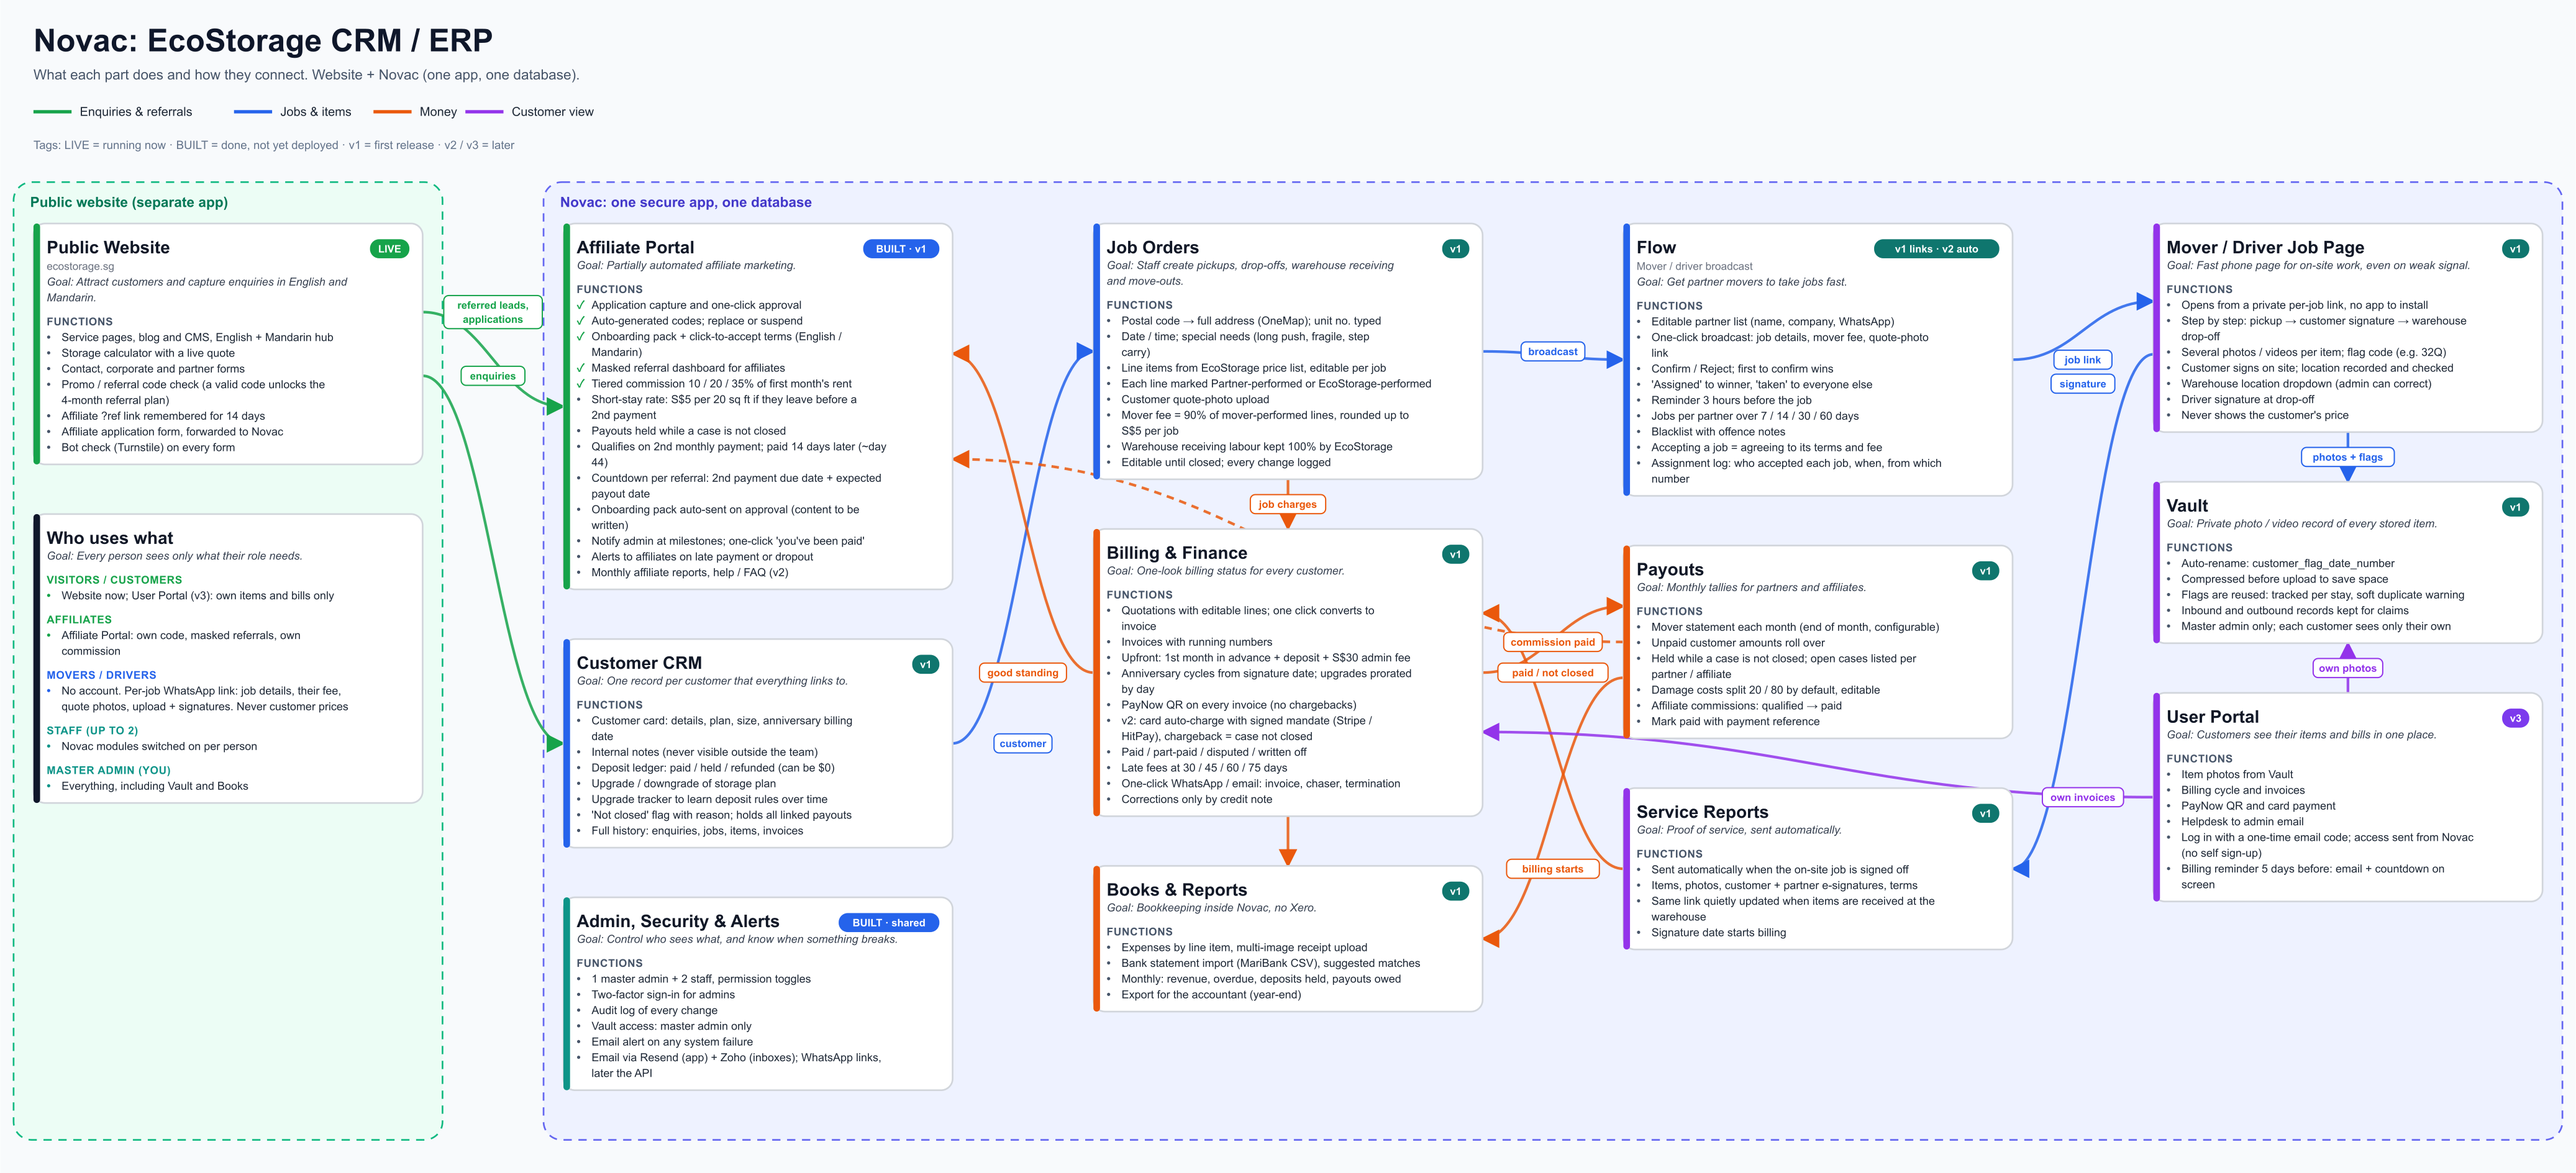
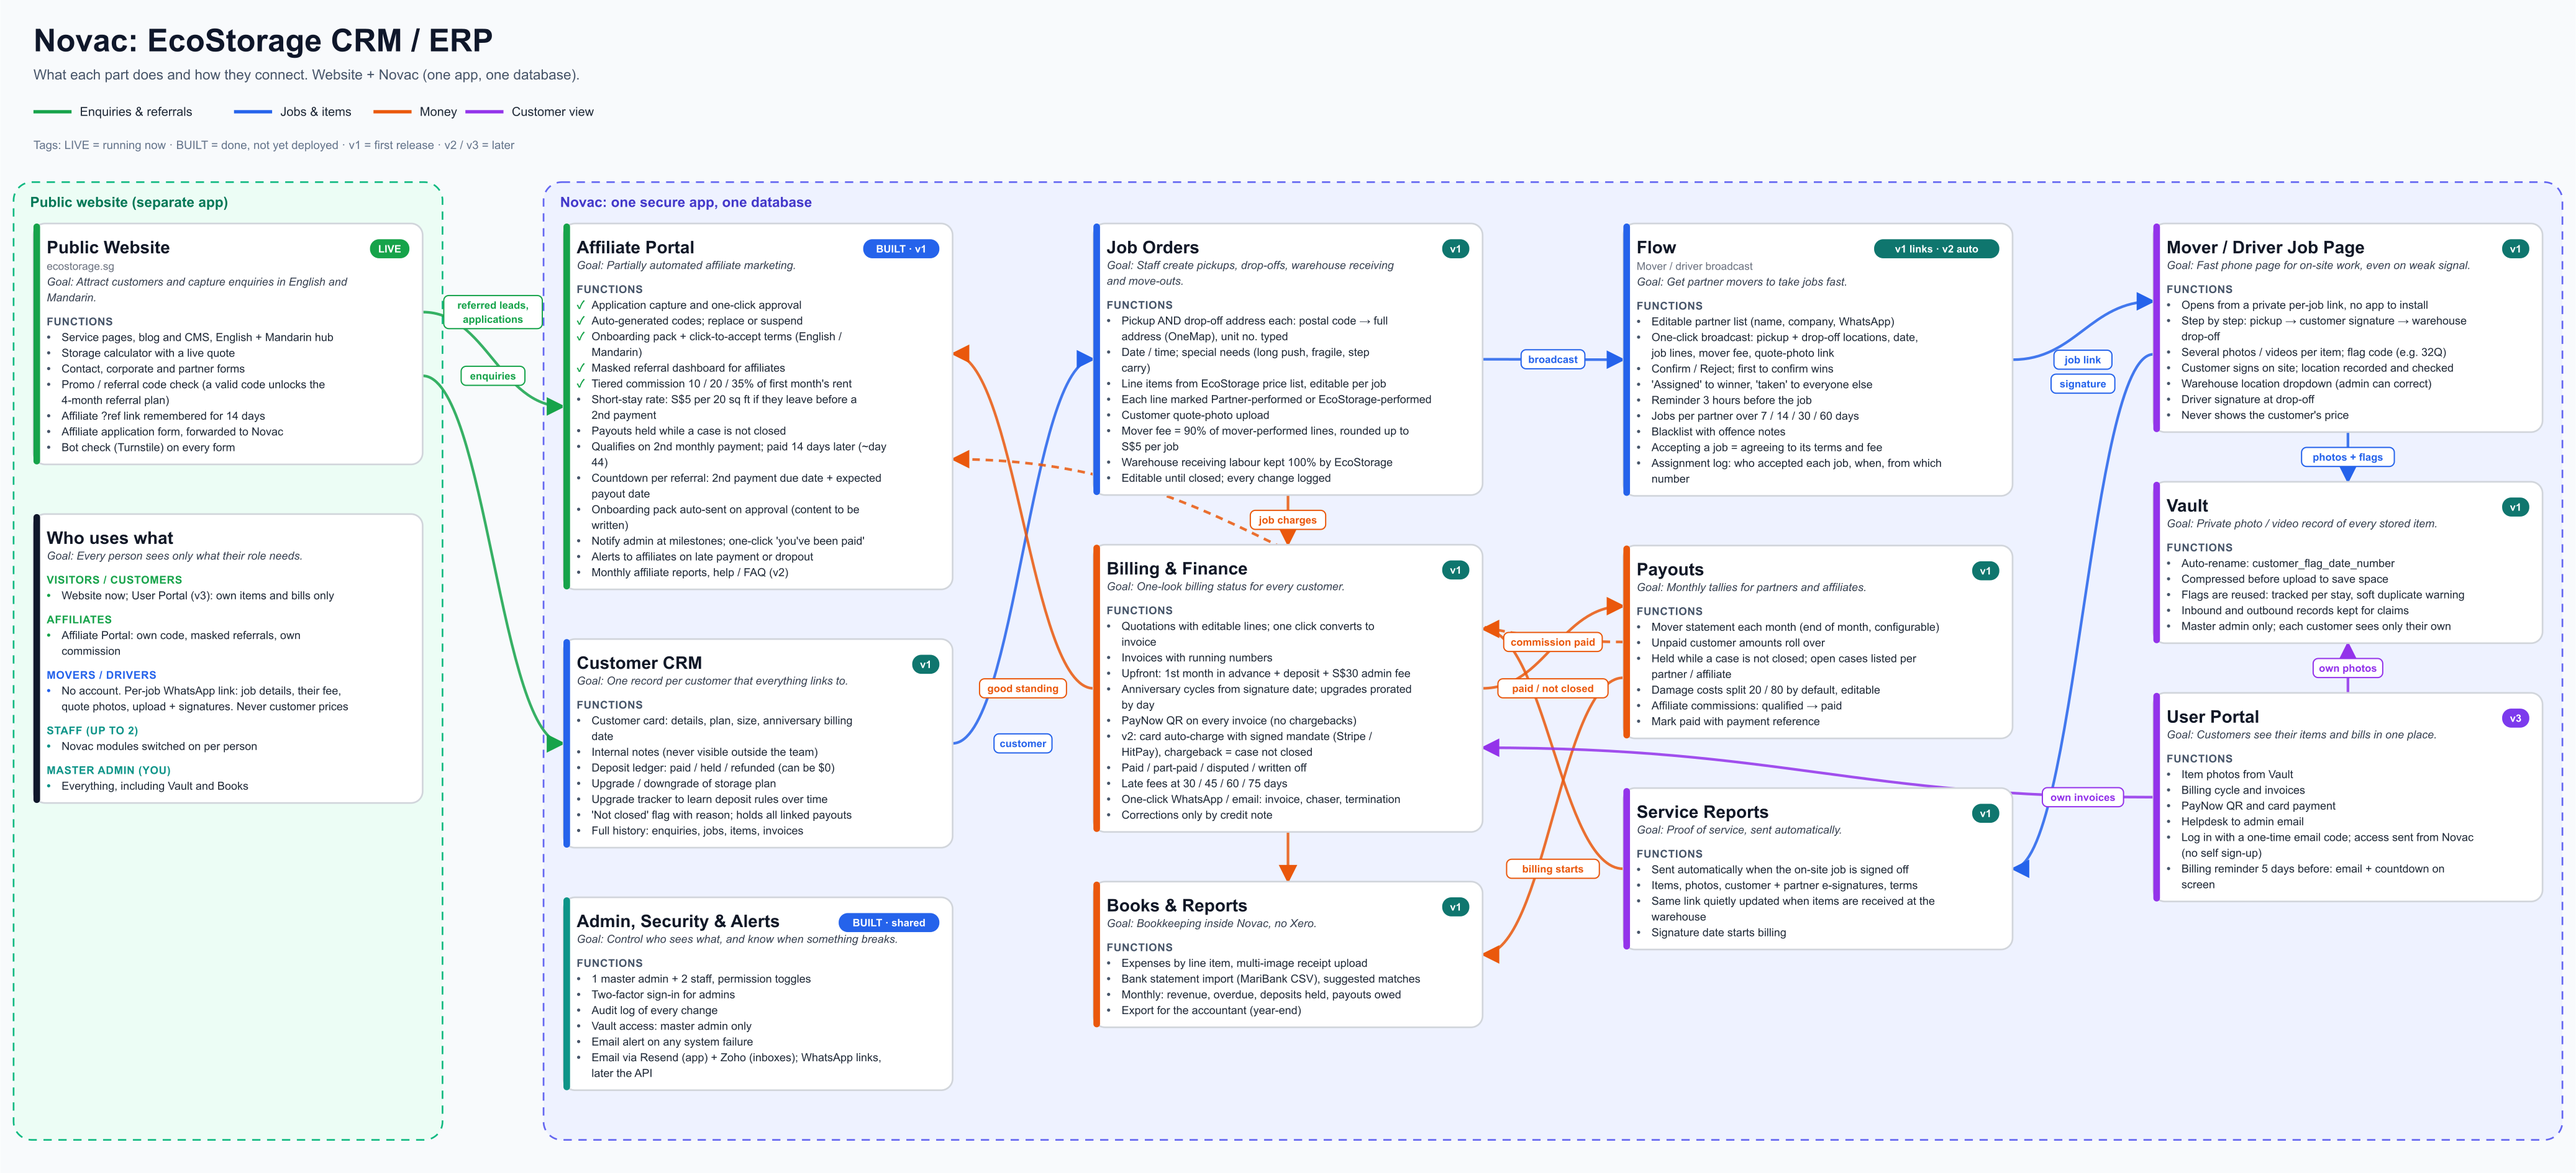
Job orders: pickup and drop-off addresses in Flow broadcast; record email plan

diff --git a/HANDOFF.md b/HANDOFF.md
@@ -254,6 +254,14 @@ section) is finalized.
   auto-charge with explicit mandate in the customer terms. Chargeback →
   case not closed + 6.4B. Evidence pack (signatures, photos, service
   report) from Vault for disputes.
+- (2026-10-10) Job orders hold BOTH a pickup and a drop-off address (each
+  postal code → OneMap); Flow broadcast shows both.
+- Email plan: one Resend account + one verified domain (ecostorage.sg)
+  serves the main site, Novac app emails and Supabase Auth SMTP, each with
+  its own sending-only API key. Resend's SPF/MX go on the `send.`
+  subdomain, so they don't clash with Zoho's root SPF/MX. Current DNS
+  (Exabytes, ns18x.mschosting.com): Zoho MX + root SPF include:zohomail.sg
+  + Zoho DKIM (zmail._domainkey); no DMARC yet.
 - Maps: docs/novac/novac-functional-map.(svg|png) and
   docs/novac/novac-technical-map.(svg|png).
 
